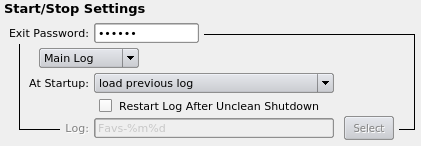
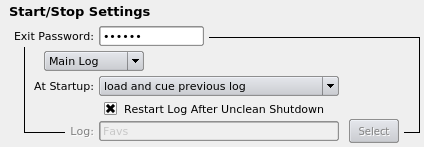
2022-09-21 Fred Gleason <fredg@paravelsystems.com> 	* Modified the 'load previous log' option in 'At Startup:' control 	in the 'Configure RDAirPlay' dialog in rdadmin(1) to be 	'load and cue previous log'.

Changed region(s): [[0.0, 0.0274, 1.0, 0.9863]]

diff --git a/lib/rdlogplay.cpp b/lib/rdlogplay.cpp
@@ -2,7 +2,7 @@
 //
 // Rivendell Log Playout Machine
 //
-//   (C) Copyright 2002-2021 Fred Gleason <fredg@paravelsystems.com>
+//   (C) Copyright 2002-2022 Fred Gleason <fredg@paravelsystems.com>
 //
 //   This program is free software; you can redistribute it and/or modify
 //   it under the terms of the GNU General Public License version 2 as
@@ -2000,7 +2000,7 @@ bool RDLogPlay::StartEvent(int line,RDLogLine::TransType trans_type,
   switch(logline->type()) {
   case RDLogLine::Cart:
     if(!StartAudioEvent(line)) {
-      rda->airplayConf()->setLogCurrentLine(play_id,nextLine());
+      UpdateRestartData();
       return false;
     }
     aport=GetNextChannel(mport,&card,&port);
@@ -2029,7 +2029,7 @@ bool RDLogPlay::StartEvent(int line,RDLogLine::TransType trans_type,
       rda->syslog(LOG_WARNING,
 		  "log engine: RDLogPlay::StartEvent(): no audio,CUT=%s",
 		  (const char *)logline->cutName().toUtf8());
-      rda->airplayConf()->setLogCurrentLine(play_id,nextLine());
+      UpdateRestartData();
       return false;
     }
     emit modified(line);
@@ -2201,13 +2201,13 @@ bool RDLogPlay::StartEvent(int line,RDLogLine::TransType trans_type,
     if((logline->state()==RDLogLine::Ok)||
        (logline->state()==RDLogLine::NoCart)||
        (logline->state()==RDLogLine::NoCut)) {
-      rda->airplayConf()->setLogCurrentLine(play_id,nextLine());
+      UpdateRestartData();
       return true;
     }
     play_next_line++;
   }
   play_next_line=-1;
-  rda->airplayConf()->setLogCurrentLine(play_id,nextLine());
+  UpdateRestartData();
   return true;
 }
 
@@ -2856,6 +2856,7 @@ void RDLogPlay::ChangeTransport()
 		     createIndex(play_next_line+play_slot_quantity-1,
 				 columnCount()));
   }
+  UpdateRestartData();
 }
 
 
@@ -3212,6 +3213,39 @@ void RDLogPlay::SendNowNext()
   if(default_next_logline!=NULL) {
     delete default_next_logline;
   }
+}
+
+
+void RDLogPlay::UpdateRestartData()
+{
+  QString running;
+  int line=-1;
+  int id=-1;
+  int lines[TRANSPORT_QUANTITY];
+  if(runningEvents(lines,false)>0) {
+    line=lines[0];
+    id=logLine(line)->id();
+    running="Y";
+  }
+  else {
+    line=nextLine();
+    if(line>=0) {
+      id=logLine(line)->id();
+    }
+    running="N";
+  }
+
+  if(line<0) {
+    line=play_next_line;
+    running="N";
+  }
+  QString sql=QString("update `LOG_MACHINES` set ")+
+    QString::asprintf("`LOG_LINE`=%d,",line)+
+    QString::asprintf("`LOG_ID`=%d,",id)+
+    "`RUNNING`='"+running+"' "+
+    "where `STATION_NAME`='"+RDEscapeString(rda->station()->name())+"' && "+
+    QString::asprintf("`MACHINE`=%d",play_id);
+  RDSqlQuery::apply(sql);
 }
 
 

diff --git a/rdadmin/edit_rdairplay.cpp b/rdadmin/edit_rdairplay.cpp
@@ -2,7 +2,7 @@
 //
 // Edit an RDAirPlay Configuration
 //
-//   (C) Copyright 2002-2021 Fred Gleason <fredg@paravelsystems.com>
+//   (C) Copyright 2002-2022 Fred Gleason <fredg@paravelsystems.com>
 //
 //   This program is free software; you can redistribute it and/or modify
 //   it under the terms of the GNU General Public License version 2 as
@@ -749,7 +749,7 @@ EditRDAirPlay::EditRDAirPlay(RDStation *station,RDStation *cae_station,
   air_startmode_box=new QComboBox(this);
   air_startmode_box->setGeometry(100,524,240,20);
   air_startmode_box->insertItem(0,tr("start with empty log"));
-  air_startmode_box->insertItem(1,tr("load previous log"));
+  air_startmode_box->insertItem(1,tr("load and cue previous log"));
   air_startmode_box->insertItem(2,tr("load specified log"));
   label=new QLabel(tr("At Startup:"),this);
   label->setFont(subLabelFont());
@@ -1166,10 +1166,12 @@ void EditRDAirPlay::startModeChangedData(int mode)
 				 RDAirPlayConf::StartSpecified);
   air_startlog_button->setEnabled((RDAirPlayConf::StartMode)mode==
 				 RDAirPlayConf::StartSpecified);
-  air_autorestart_box->setDisabled((RDAirPlayConf::StartMode)mode==
-				   RDAirPlayConf::StartEmpty);
-  air_autorestart_label->setDisabled((RDAirPlayConf::StartMode)mode==
-				     RDAirPlayConf::StartEmpty);
+  air_autorestart_box->
+    setDisabled(((RDAirPlayConf::StartMode)mode==RDAirPlayConf::StartEmpty)||
+	       ((RDAirPlayConf::StartMode)mode==RDAirPlayConf::StartSpecified));
+  air_autorestart_label->
+    setDisabled(((RDAirPlayConf::StartMode)mode==RDAirPlayConf::StartEmpty)||
+	       ((RDAirPlayConf::StartMode)mode==RDAirPlayConf::StartSpecified));
 }
 
 

diff --git a/rdairplay/rdairplay.cpp b/rdairplay/rdairplay.cpp
@@ -776,11 +776,10 @@ void MainWidget::ripcConnectedData(bool state)
 	  RDDateTimeDecode(rda->airplayConf()->currentLog(i),
 			   air_startup_datetime,rda->station(),rda->config());
 	if(!air_start_logname[i].isEmpty()) {
-	  if(rdairplay_previous_exit_code==RDAirPlayConf::ExitDirty) {
-	    if((air_start_line[i]=rda->airplayConf()->logCurrentLine(i))>=0) {
-	      air_start_start[i]=rda->airplayConf()->autoRestart(i)&&
-		rda->airplayConf()->logRunning(i);
-	    }
+	  if((air_start_line[i]=rda->airplayConf()->logCurrentLine(i))>=0) {
+	    air_start_start[i]=rda->airplayConf()->autoRestart(i)&&
+	      rda->airplayConf()->logRunning(i)&&
+	      (rdairplay_previous_exit_code==RDAirPlayConf::ExitDirty);
 	  }
 	  else {
 	    air_start_line[i]=0;
@@ -793,21 +792,8 @@ void MainWidget::ripcConnectedData(bool state)
 	air_start_logname[i]=
 	  RDDateTimeDecode(rda->airplayConf()->logName(i),
 			   air_startup_datetime,rda->station(),rda->config());
-	if(!air_start_logname[i].isEmpty()) {
-	  if(rdairplay_previous_exit_code==RDAirPlayConf::ExitDirty) {
-	    if(air_start_logname[i]==rda->airplayConf()->currentLog(i)) {
-	      if((air_start_line[i]=rda->airplayConf()->logCurrentLine(i))>=
-		 0) {
-		air_start_start[i]=rda->airplayConf()->autoRestart(i)&&
-		  rda->airplayConf()->logRunning(i);
-	      }
-	      else {
-		air_start_line[i]=0;
-		air_start_start[i]=false;
-	      }
-	    }
-	  }
-	}
+	air_start_line[i]=0;
+	air_start_start[i]=false;
 	break;
       }
     }

diff --git a/lib/rdlogplay.h b/lib/rdlogplay.h
@@ -2,7 +2,7 @@
 //
 // Rivendell Log Playout Machine
 //
-//   (C) Copyright 2002-2021 Fred Gleason <fredg@paravelsystems.com>
+//   (C) Copyright 2002-2022 Fred Gleason <fredg@paravelsystems.com>
 //
 //   This program is free software; you can redistribute it and/or modify
 //   it under the terms of the GNU General Public License version 2 as
@@ -197,6 +197,7 @@ class RDLogPlay : public RDLogModel
   RDLogLine::TransType GetTransType(const QString &logname,int line);
   bool ClearBlock(int start_line);
   void SendNowNext();
+  void UpdateRestartData();
   QString GetPadJson(const QString &name,RDLogLine *ll,
 		     const QDateTime &start_datetime,int line,int padding,
 		     bool final=false) const;
